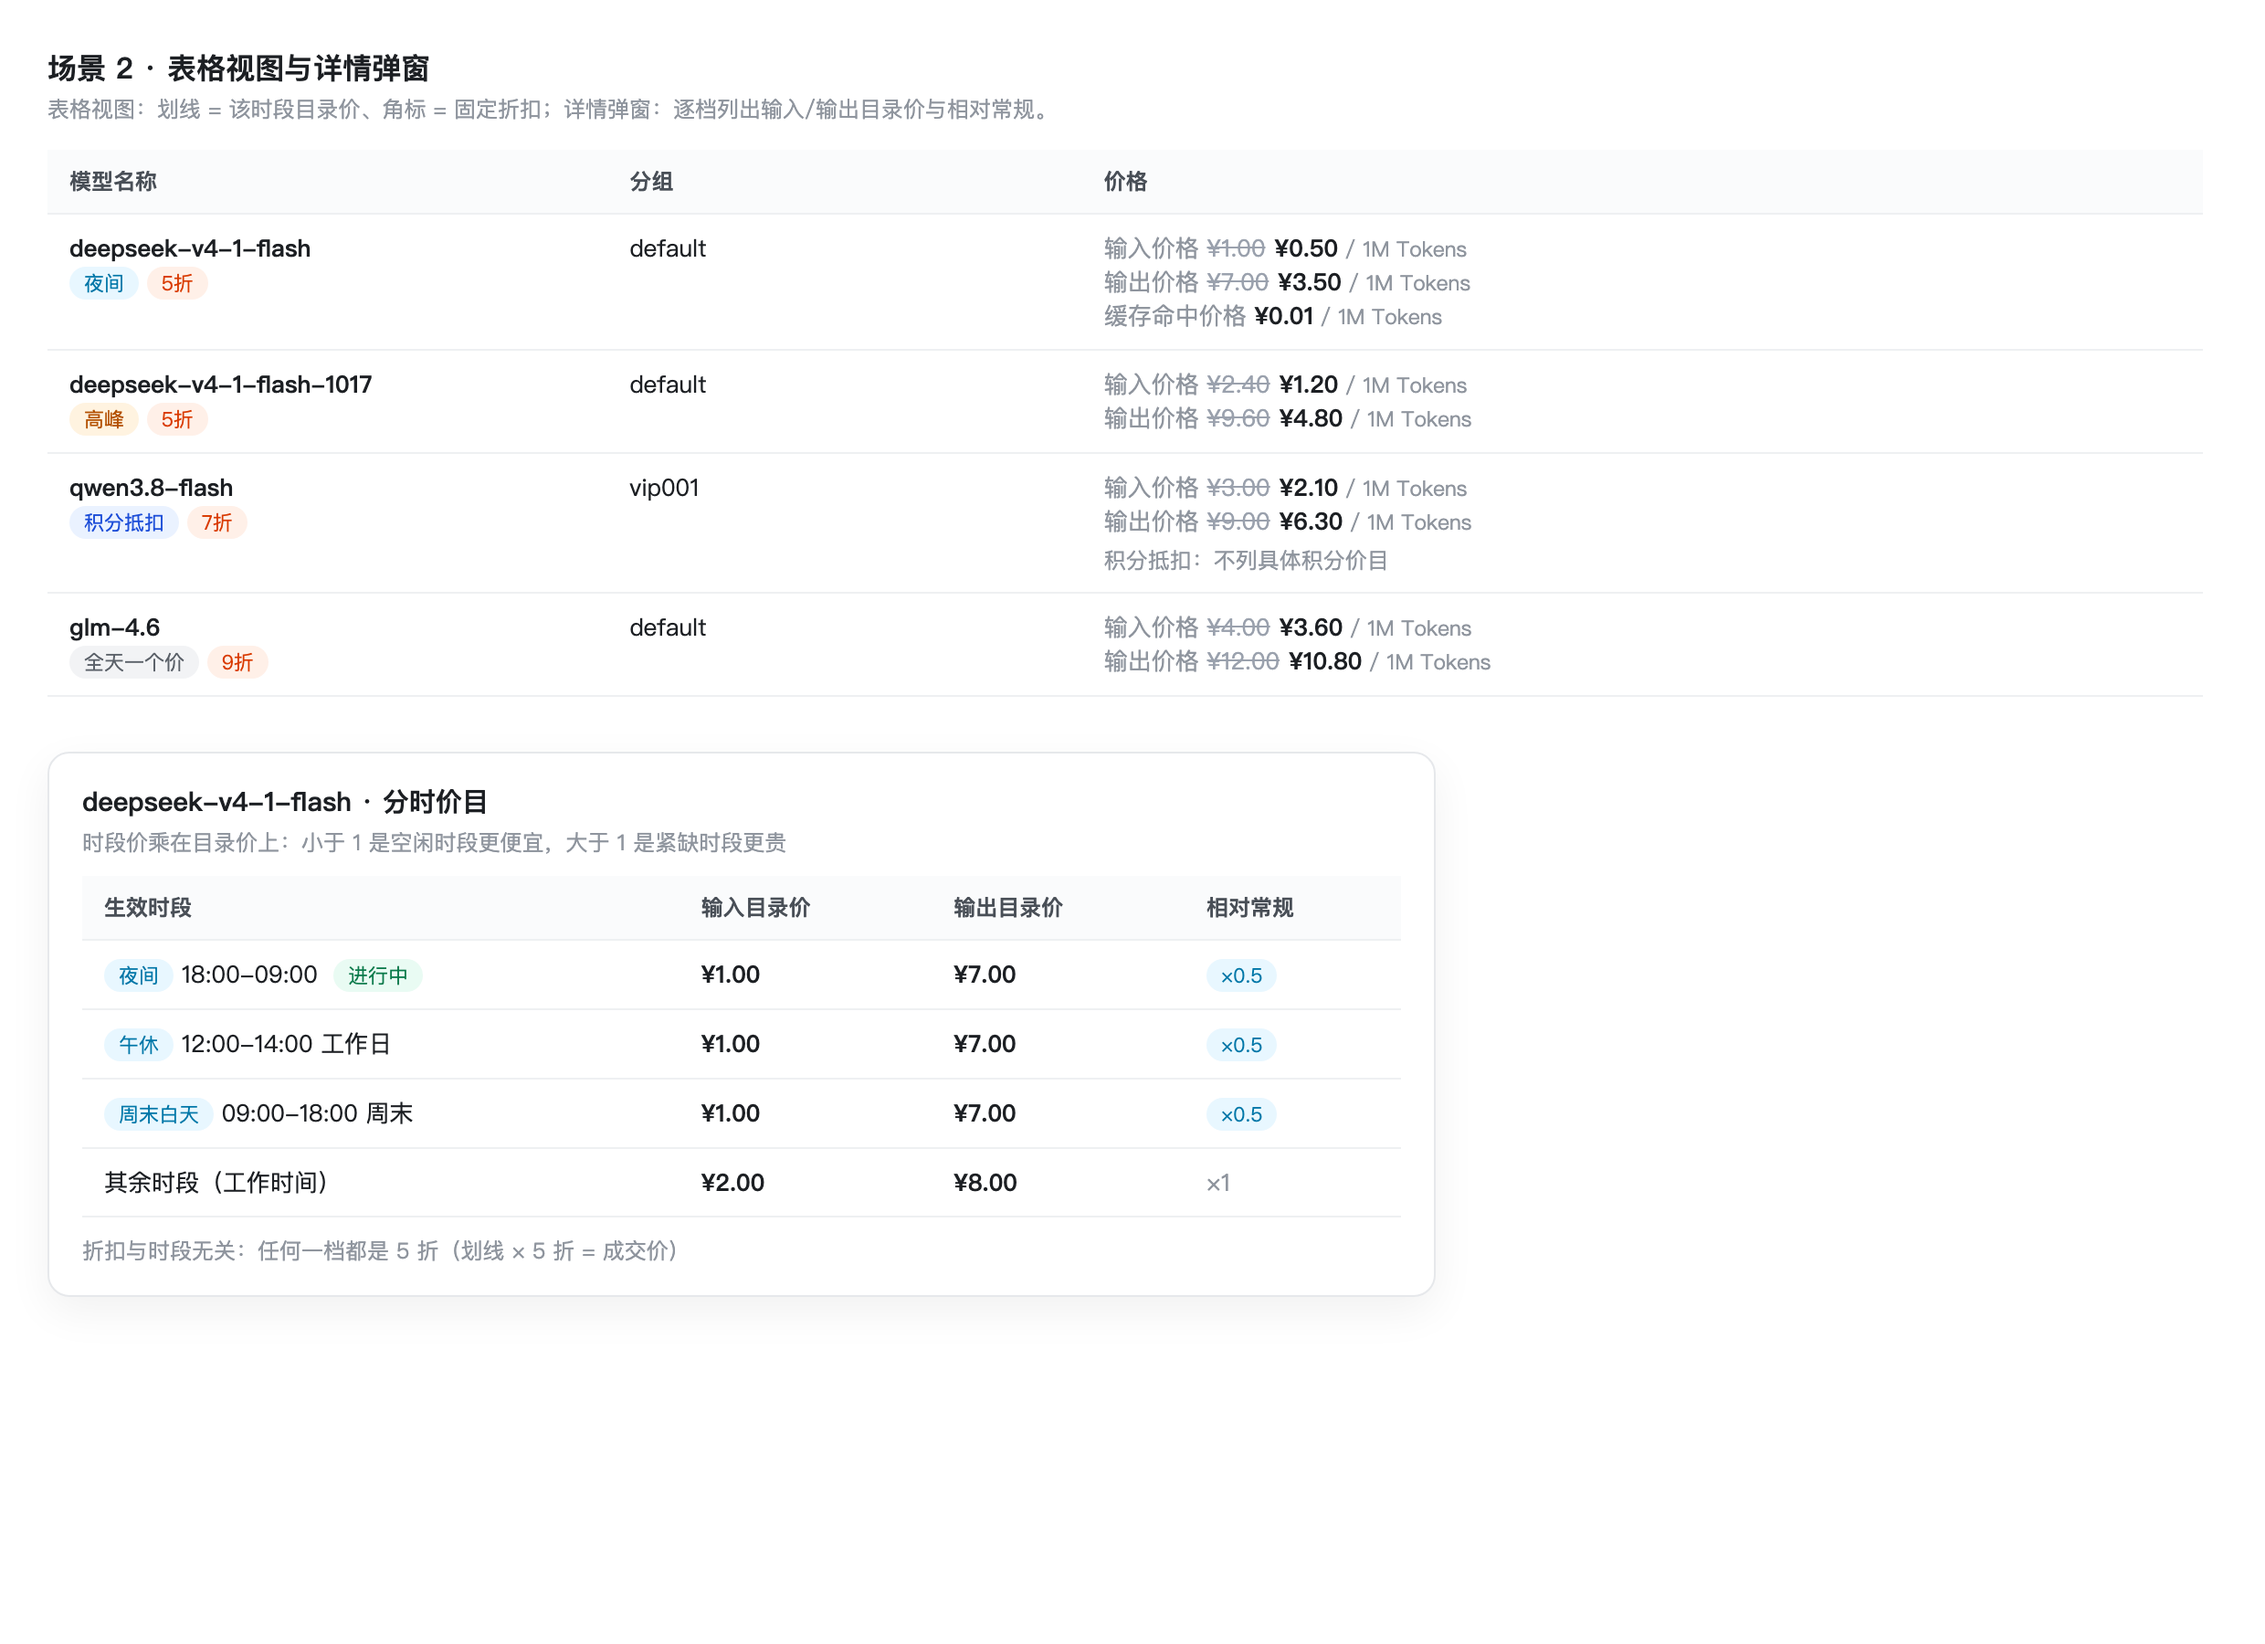
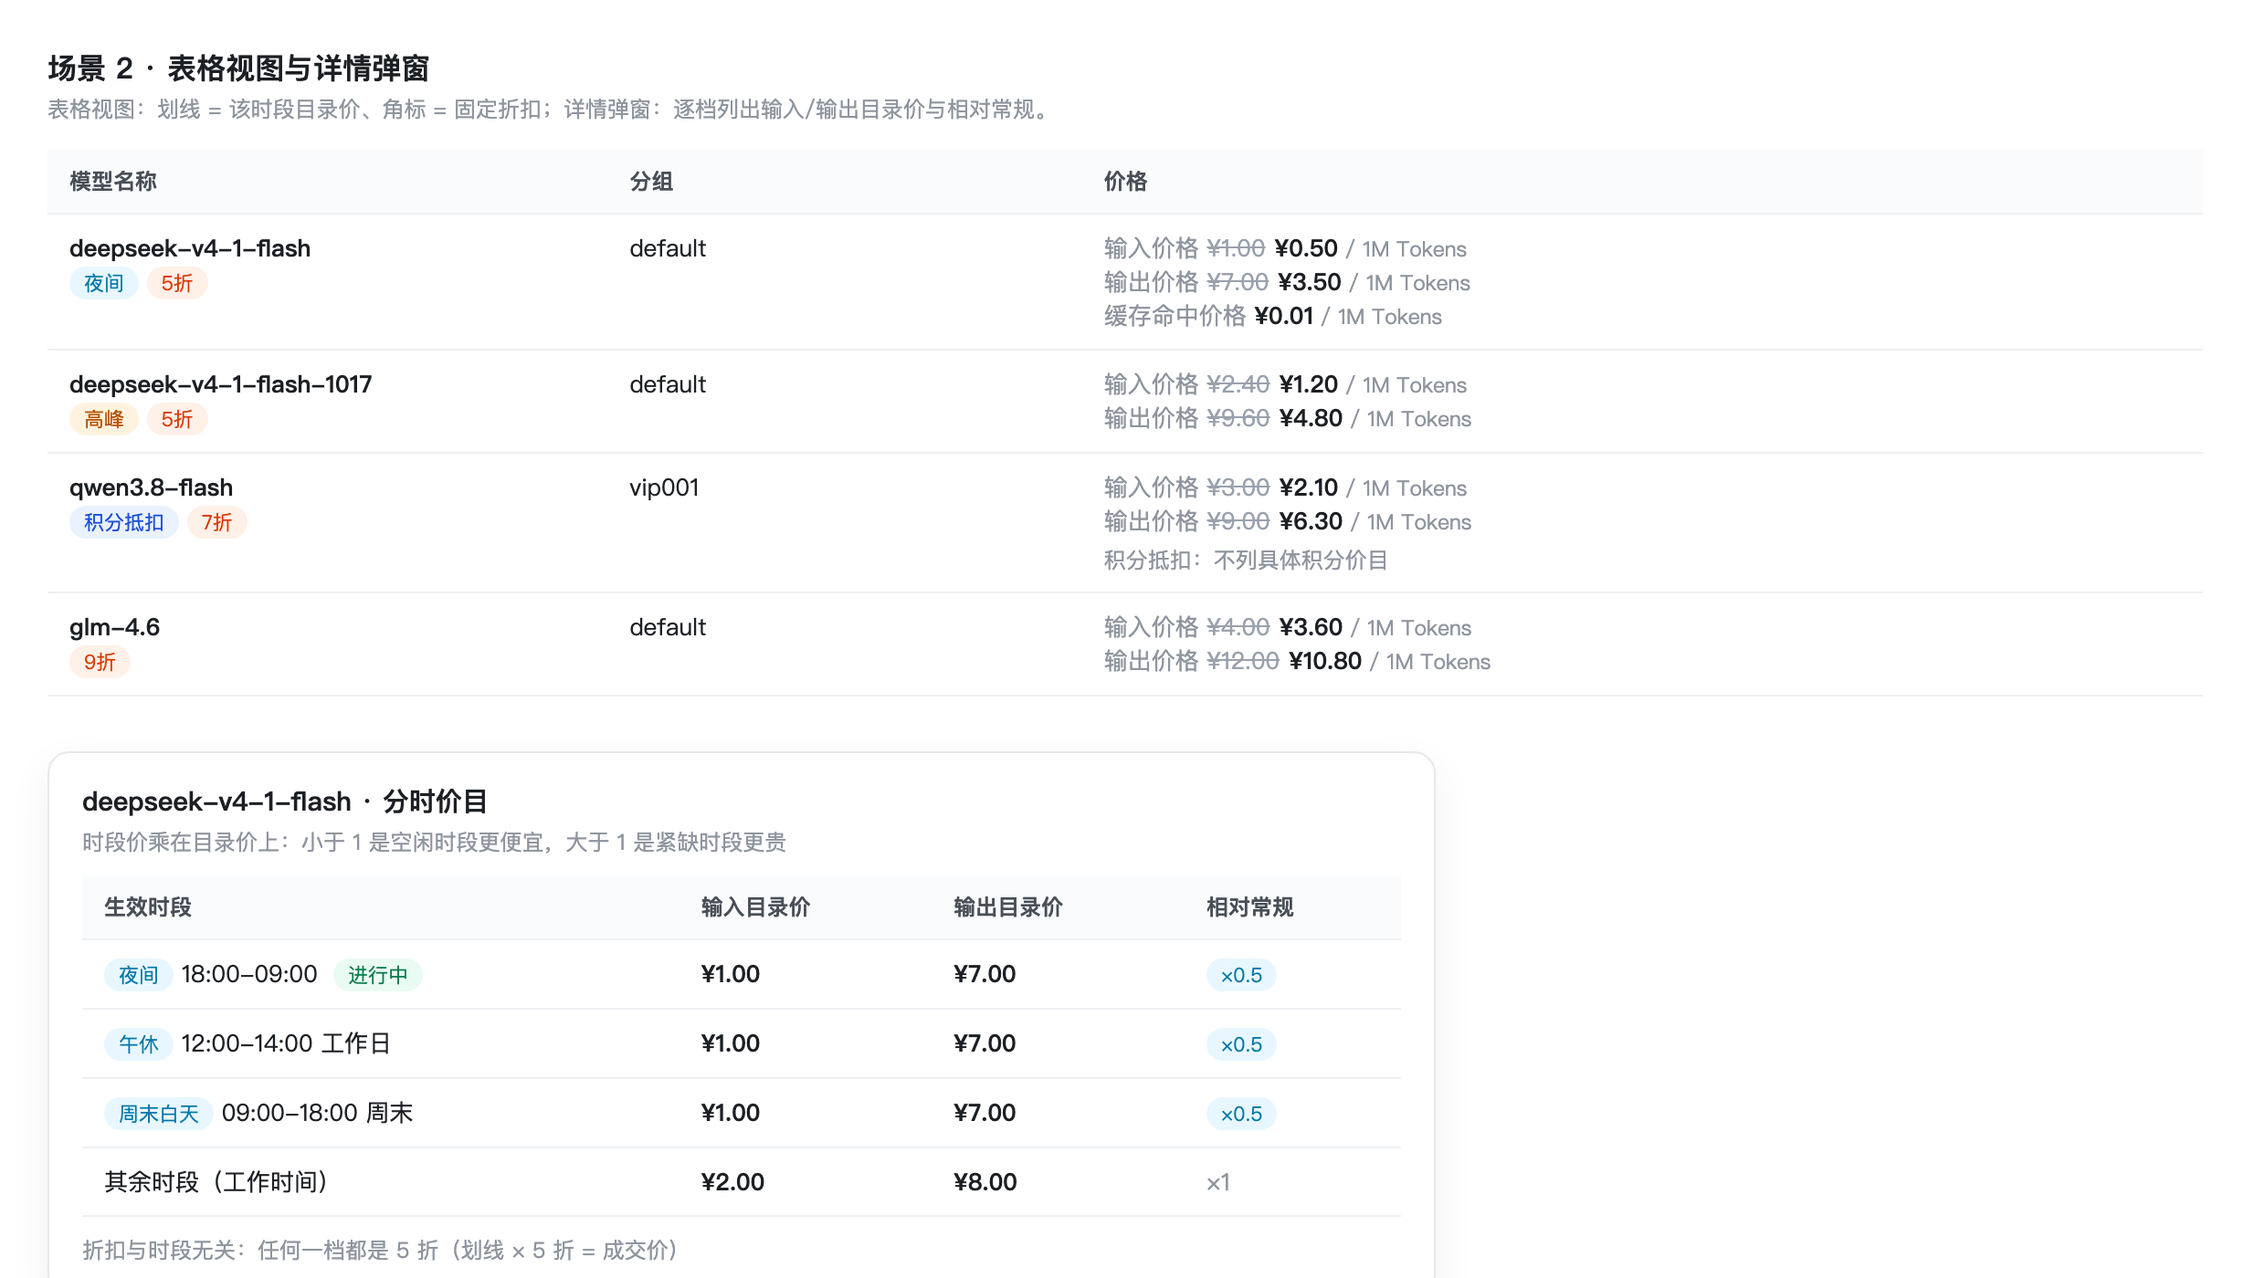
fix(pricing): 去掉「全天一个价」标记——默认就是一个价，不必标
分组管理页的只读时段价列，未配置时段价时原来显示「全天一个价」。
那本来就是默认事实，每个模型都写一遍只是噪音，还容易让人以为那是个特殊状态；
改成留一个短横。

模型广场本来就没有这个标签（时段标签只在"此刻价目 ≠ 常规价目"时出现），
之前提交里的样例图把它画上去了，属于样例画错，一并修正并重新出图。

验证：vitest 108 文件 / 809 例全过；vite build 通过。

diff --git a/docs/images/mock-plaza-cards.html b/docs/images/mock-plaza-cards.html
@@ -50,8 +50,8 @@ h3{margin:0;font-size:15px}
     <div><span class="label">输出价格</span> <span class="strike">¥9.00</span><span class="num">¥6.30</span><span class="unit"> / 1M Tokens</span></div></div>
     <div class="note">⑤ 支持积分抵扣：只打「积分抵扣」小标，不再列「积分价 xx 积分」</div></div>
 
-  <div class="card"><div class="head"><h3>glm-4.6</h3><div class="tags"><span class="tag t-plain">全天一个价</span><span class="tag t-disc">9折</span></div></div>
+  <div class="card"><div class="head"><h3>glm-4.6</h3><div class="tags"><span class="tag t-disc">9折</span></div></div>
     <div class="price"><div><span class="label">输入价格</span> <span class="strike">¥4.00</span><span class="num">¥3.60</span><span class="unit"> / 1M Tokens</span></div>
     <div><span class="label">输出价格</span> <span class="strike">¥12.00</span><span class="num">¥10.80</span><span class="unit"> / 1M Tokens</span></div></div>
-    <div class="note">⑥ 没配分时价：行为与改造前一致（划线 = 目录价，无时段标签）</div></div>
+    <div class="note">⑥ 没配分时价：只有折扣角标，没有任何时段标签（默认就是一个价）</div></div>
 </div></body></html>

diff --git a/docs/images/mock-plaza-table.html b/docs/images/mock-plaza-table.html
@@ -47,7 +47,7 @@ th{background:#fafbfc;font-weight:600;color:#494f57;font-size:12px}
       <div class="muted" style="font-size:12px;margin-top:4px">积分抵扣：不列具体积分价目</div></td>
 </tr>
 <tr>
-  <td><strong>glm-4.6</strong><br><span class="tag t-plain">全天一个价</span> <span class="tag t-disc">9折</span></td>
+  <td><strong>glm-4.6</strong><br><span class="tag t-disc">9折</span></td>
   <td>default</td>
   <td><div><span class="muted">输入价格</span> <span class="strike">¥4.00</span><span class="num">¥3.60</span><span class="unit"> / 1M Tokens</span></div>
       <div><span class="muted">输出价格</span> <span class="strike">¥12.00</span><span class="num">¥10.80</span><span class="unit"> / 1M Tokens</span></div></td>

diff --git a/web/classic/src/pages/GroupManagement/components/ModelRatioEditor.jsx b/web/classic/src/pages/GroupManagement/components/ModelRatioEditor.jsx
@@ -718,10 +718,12 @@ export default function ModelRatioEditor({
         render: (_, record) => {
           const pattern = (record.pattern || '').trim();
           const { list, scope } = resolveTimeRules(pattern);
+          // 没配时段价就留空（一个短横）。"全天一个价"是默认事实，不需要标出来——
+          // 每个模型都写一遍只是噪音，反而让人以为那是一个特殊状态。
           if (list.length === 0) {
             return (
               <Text type='tertiary' size='small'>
-                {t('全天一个价')}
+                —
               </Text>
             );
           }
